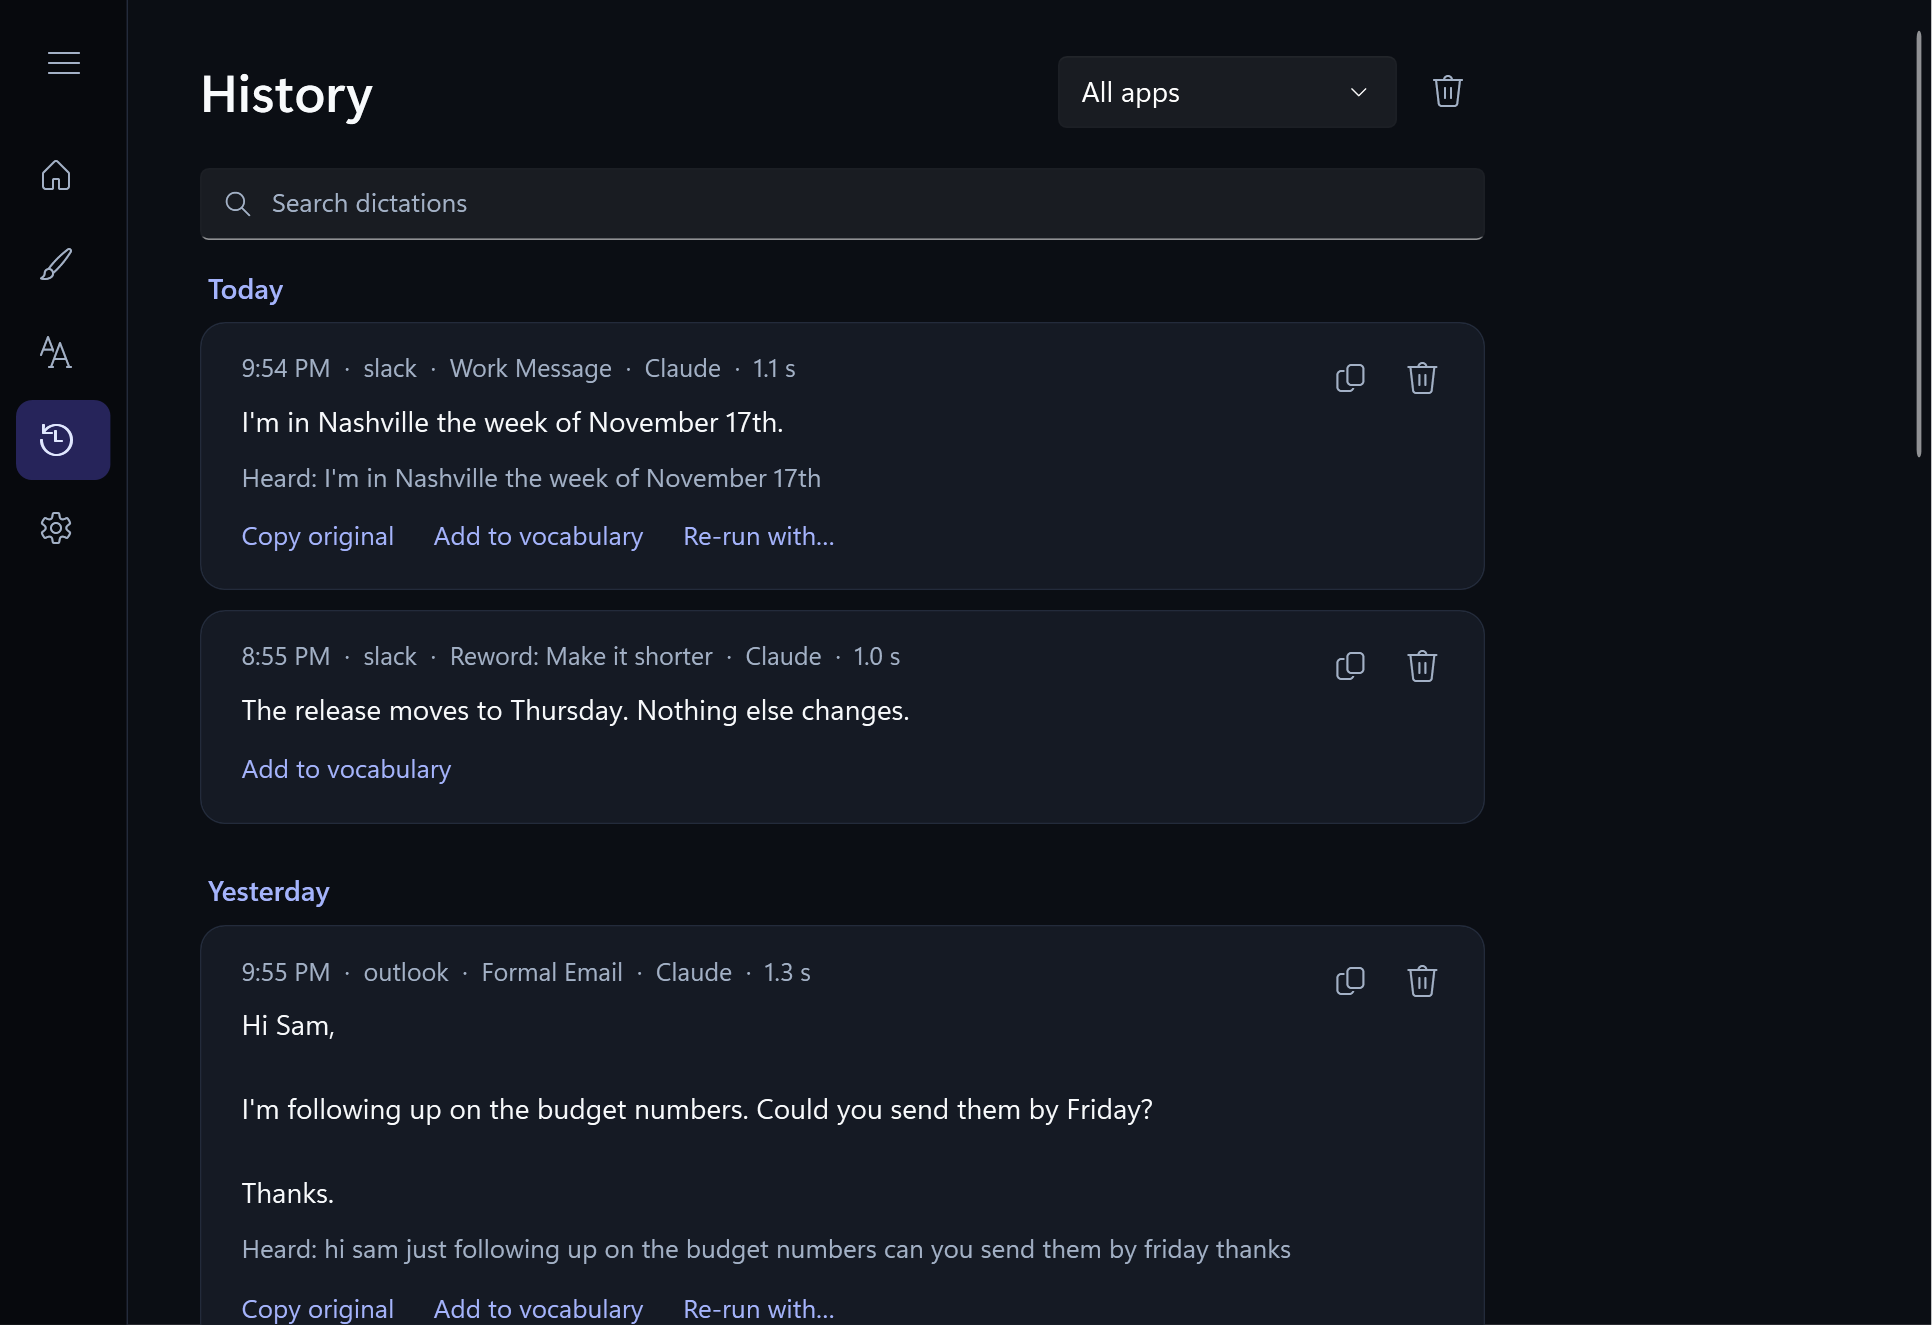
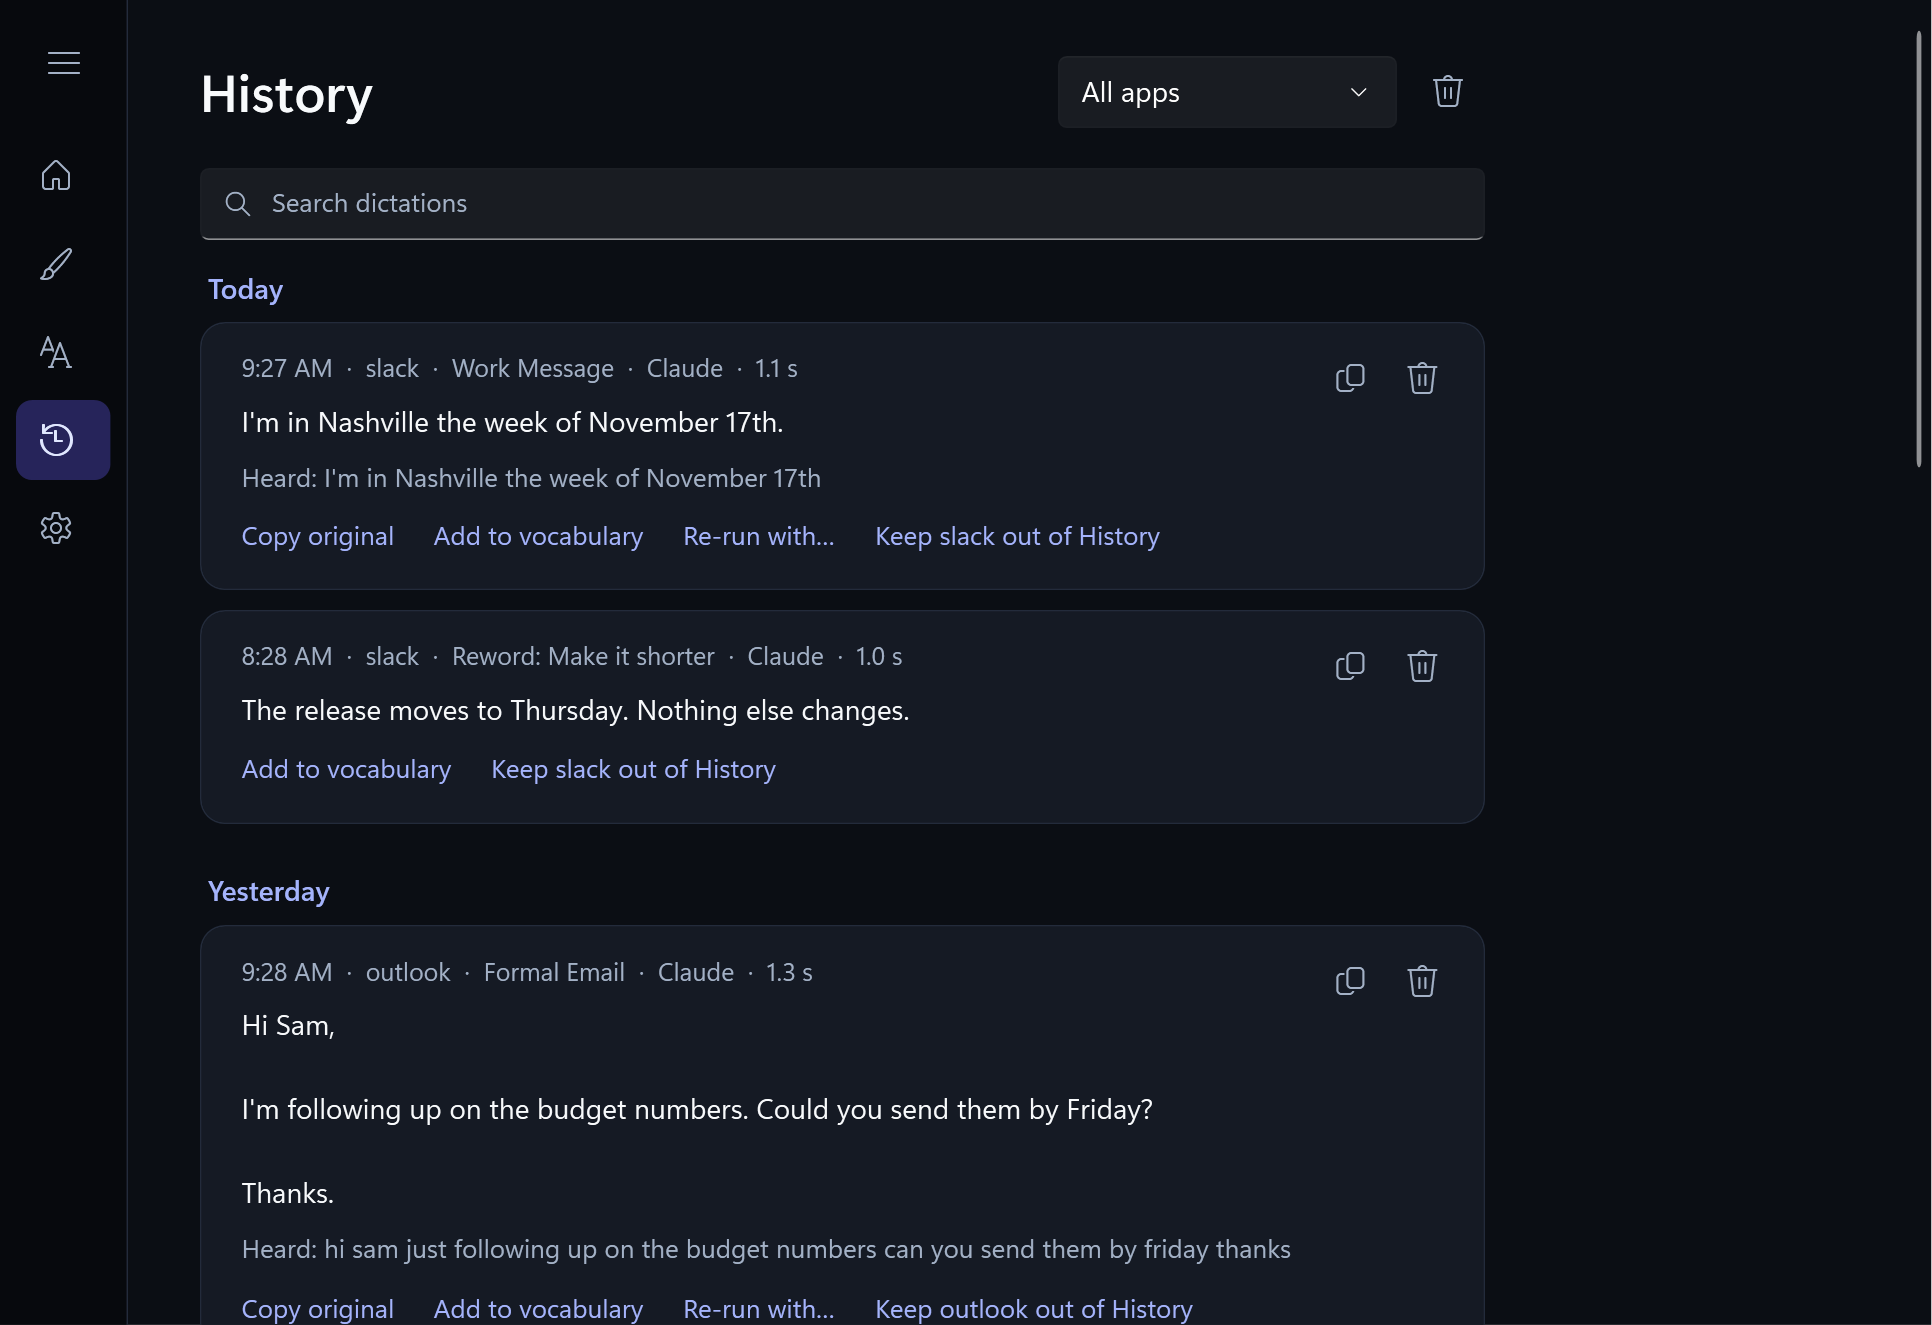
Site: 2.1.31 - clear one app's history, keep an app out from History

diff --git a/site/index.html b/site/index.html
@@ -341,11 +341,11 @@
         <ul>
           <li><strong>Send by voice.</strong> End a message with “send it” and OutCast presses Send (or Enter) once the text is in.</li>
           <li><strong>Never lost.</strong> If the window changed while OutCast was writing, the text is copied instead of typed somewhere else, and you're told.</li>
-          <li><strong>History.</strong> Search what you dictated, copy it again, add a word from it to your vocabulary, or <strong>re-run it</strong> in another style. Kept on your device only, for as long as you choose, and never for the apps you keep out of it.</li>
+          <li><strong>History.</strong> Search what you dictated, copy it again, add a word from it to your vocabulary, or <strong>re-run it</strong> in another style. Clear one app's dictations, or keep an app out from one of its entries. Kept on your device only, for as long as you choose.</li>
           <li><strong>Phone and PC together.</strong> Back up on one, restore on the other: styles, vocabulary, snippets, settings, stats and badges, and your keys if you choose.</li>
         </ul>
       </div>
-      <figure class="shot"><img loading="lazy" src="assets/history.png" width="1932" height="1325" alt="History page: entries by day with an app filter and search, what was heard, and Copy original, Add to vocabulary and Re-run with actions"><figcaption><strong>History.</strong> What OutCast typed, with what it heard.</figcaption></figure>
+      <figure class="shot"><img loading="lazy" src="assets/history.png" width="1932" height="1325" alt="History page: entries by day with an app filter and search, what was heard, and Copy original, Add to vocabulary, Re-run with and Keep out of History actions"><figcaption><strong>History.</strong> What OutCast typed, with what it heard.</figcaption></figure>
     </div>
   </div>
 </section>
